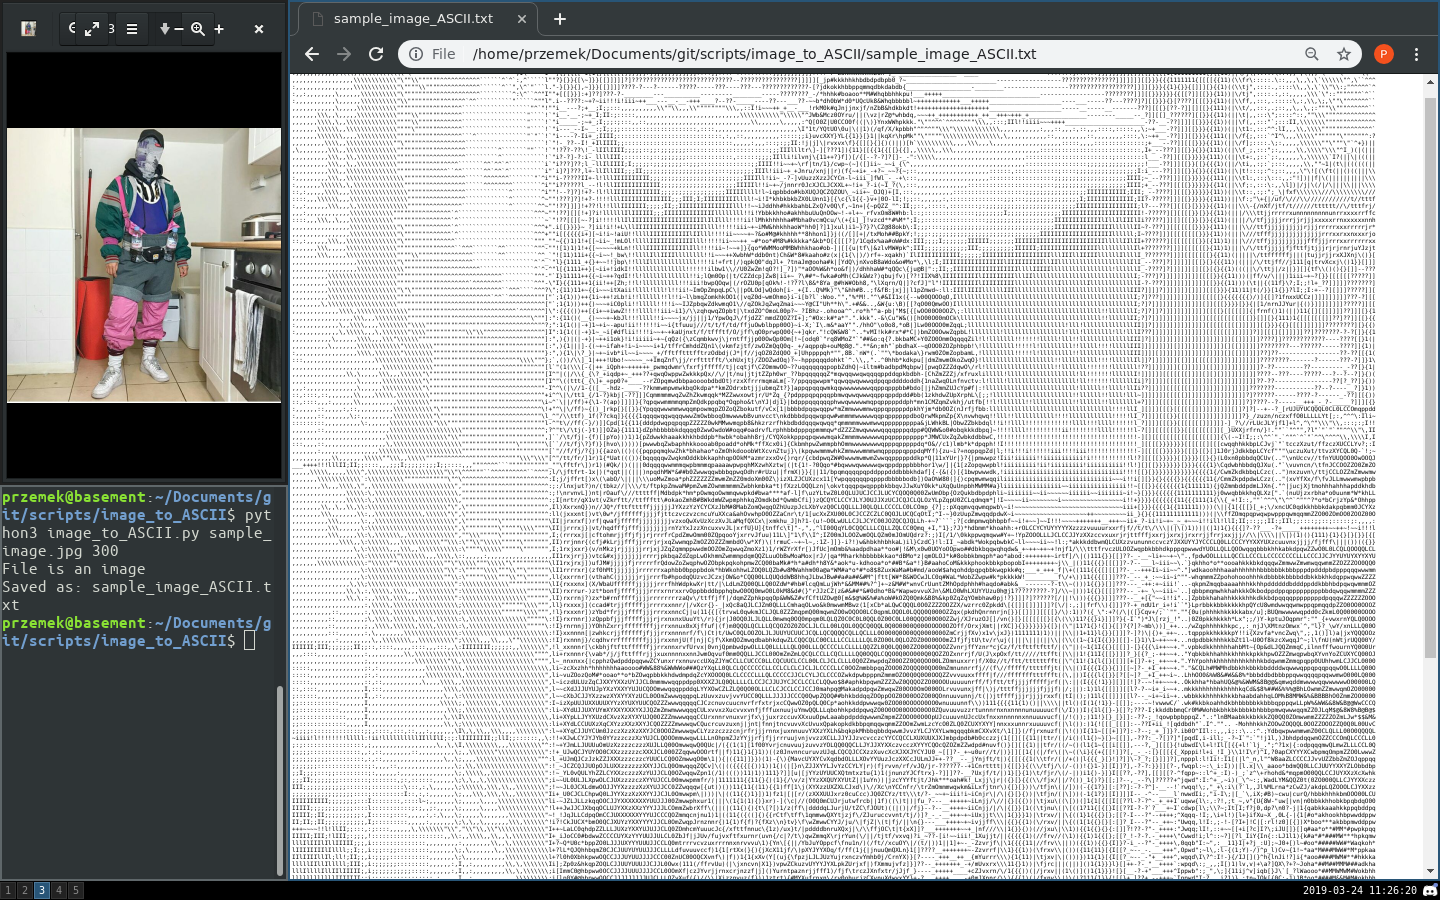
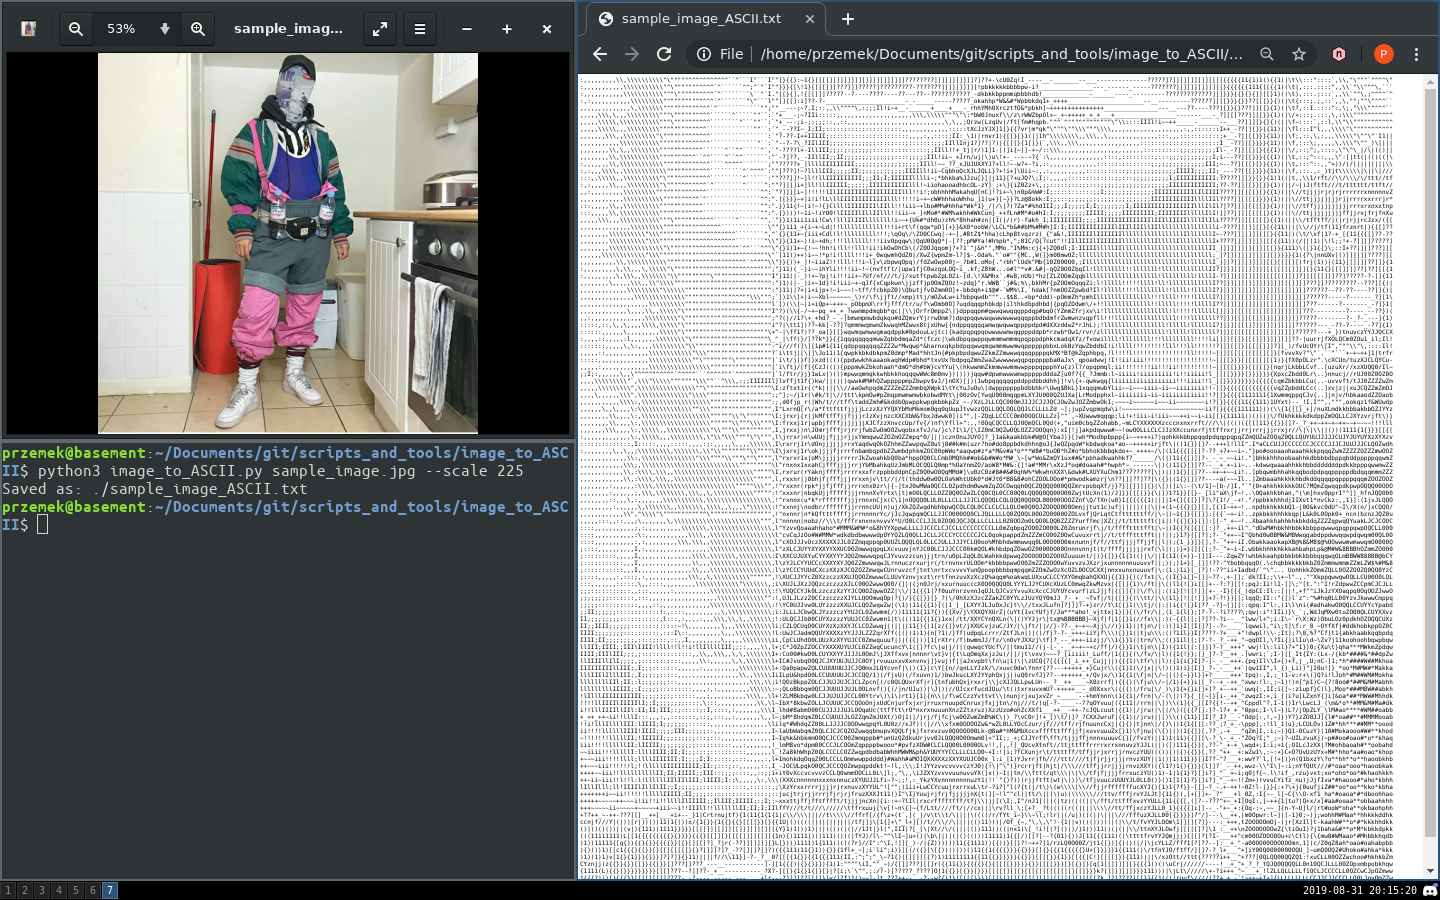
Updated READMEs, helps. Added a possibility to use image_to_ASCII on directories and updated its screenshot

diff --git a/image_to_ASCII/image_to_ASCII.py b/image_to_ASCII/image_to_ASCII.py
@@ -1,18 +1,15 @@
 from PIL import Image
-from os.path import isfile, join, splitext, exists, basename
+from os import listdir
+from os.path import isfile, isdir, join, splitext, exists, basename
 import argparse
 
 
 class Converter:
   def __init__(self):
     self.args = []
-    self.img = None
     self.r = []
     self.init_args()
-    if self.check_if_img():
-      self.open_img()
-      self.to_ASCII()
-      self.save_to_file()
+    self.dir_or_file()
 
   def valid_path(self, path):
     if not exists(path):
@@ -21,7 +18,7 @@ class Converter:
 
   def valid_scale(self, scale):
     s = int(scale)
-    if s <= 0:
+    if s < 1:
       raise argparse.ArgumentTypeError('The scale is too small')
     if s > 500:
       raise argparse.ArgumentTypeError('The scale is too big')
@@ -29,46 +26,70 @@ class Converter:
 
   def init_args(self):
     arg_parser = argparse.ArgumentParser(
-        description='''asdf''', formatter_class=argparse.RawTextHelpFormatter)
+        description='''This script changes images to text files.
+Next to arguments names there is info about: <range> {default value}.''', formatter_class=argparse.RawTextHelpFormatter)
 
     arg_parser.add_argument(
         'src_path', type=self.valid_path, help='Path of a directory with images or a single image to process')
-    arg_parser.add_argument('--dest_path', type=self.valid_path, default='.', metavar='', 
-                                 help='Path of a directory where a result of the script will be saved, defaultly it\'s a current working directory')
-    arg_parser.add_argument('--scale', type=self.valid_scale, default=100, metavar='', 
+    arg_parser.add_argument('--dest_path', type=self.valid_path, default='.', metavar='{.}', 
+                                 help='Path of a directory where a result of the script will be saved')
+    arg_parser.add_argument('--scale', type=self.valid_scale, default=100, metavar='<1 - 500> {100}', 
                                  help='Scale of the outputed text image')
 
     self.args = arg_parser.parse_args()
 
-  def check_if_img(self):
-    if isfile(self.args.src_path):
-      if splitext(self.args.src_path)[1] in ['.jpeg', '.jpg', '.png', '.bmp', '.gif']:
-        return True
-    print('The passed source path doesn\'t contain an image')
-    return False
+  def dir_or_file(self):
+    if isdir(self.args.src_path):
+      self.iterate_over_files()
+    else:
+      if self.check_if_img(self.args.src_path):
+        self.generate_ascii_image(self.args.src_path)
+      else:
+        print('The source path doesn\'t contain an image')
 
-  def open_img(self):
-    self.img = Image.open(self.args.src_path)
-    self.img = self.img.convert('L')
+  def iterate_over_files(self):
+    imgs = [f for f in listdir(self.args.src_path) if isfile(join(self.args.src_path, f))
+            and self.check_if_img(f)]
+
+    if not imgs:
+      print('No images have been found in the source path')
+
+    imgs_len = len(imgs)
+    for i, img in enumerate(imgs):
+      print('[{}/{}] Current image: {}'.format(i + 1,
+                                               imgs_len,
+                                               join(self.args.src_path, img)))
+      self.generate_ascii_image(join(self.args.src_path, img))
+
+  def check_if_img(self, path):
+    return splitext(path)[1] in ['.jpg', '.png', '.bmp', '.gif']
+
+  def generate_ascii_image(self, img_path):
+    img = self.open_img(img_path)
+    r = self.to_ascii(img)
+    self.save_to_file(img, img_path, r)
+
+  def open_img(self, img_path):
+    img = Image.open(img_path).convert('L')
     wh_font_ratio = 0.526
-    self.img = self.img.resize(
+    return img.resize(
         (self.args.scale, 
-         int(self.img.height * self.args.scale * wh_font_ratio / self.img.width)))
+         int(img.height * self.args.scale * wh_font_ratio / img.width)))
 
-  def to_ASCII(self):
+  def to_ascii(self, img):
     chars = r'$@B%8&WM#*oahkbdpqwmZO0QLCJUYXzcvunxrjft/\|()1{}[]?-_+~i!lI;:,\"^`". '
+    r = []
+    for px in list(img.getdata()):
+      r.append(chars[int(px / 255 * (len(chars) - 1))])
+    return r
 
-    for px in list(self.img.getdata()):
-      self.r.append(chars[int(px / 255 * (len(chars) - 1))])
-
-  def save_to_file(self):
-    name = basename(self.args.src_path)
-    name = splitext(name)
-    name = '{}_ASCII.txt'.format(name[0])
-    with open(name, 'w') as f:
-      f.write('\n'.join([''.join(self.r[i:i + self.img.width])
-                         for i in range(0, len(self.r), self.img.width)]))
-    print('Saved as: {}'.format(name))
+  def save_to_file(self, img, img_path, r):
+    path = splitext(basename(img_path))
+    path = join(self.args.dest_path, '{}_ASCII.txt'.format(path[0]))
+    with open(path, 'w') as f:
+      f.write('\n'.join([''.join(r[i:i + img.width])
+                         for i in range(0, len(r), img.width)]))
+    print('Saved as: {}'.format(path))
 
 
 def main():

diff --git a/wallpaper_generator/wallpaper_generator.py b/wallpaper_generator/wallpaper_generator.py
@@ -25,12 +25,13 @@ class WallpaperGenerator:
 
   def init_args(self):
     arg_parser = argparse.ArgumentParser(
-        description='A script that generates wallpapers from images')
+        description='''This script generates wallpapers from images.
+Next to arguments names there is info about: <range> {default value}.''', formatter_class=argparse.RawTextHelpFormatter)
 
     arg_parser.add_argument(
         'src_path', type=self.valid_path, help='Path of a directory with images or a single image to process')
-    arg_parser.add_argument('--dest_path', type=self.valid_path, default='.', metavar='', 
-                                 help='Path of a directory where a result of the script will be saved, defaultly it\'s a current working directory')
+    arg_parser.add_argument('--dest_path', type=self.valid_path, default='.', metavar='{.}', 
+                                 help='Path of a directory where a result of the script will be saved')
     arg_parser.add_argument(
         '--i_min_w', type=self.valid_dimension, default=0, metavar='', help='Min width of an input image')
     arg_parser.add_argument(
@@ -41,9 +42,9 @@ class WallpaperGenerator:
         '--i_max_h', type=self.valid_dimension, default=2147483647, metavar='', help='Max height of an input image')
     root = tkinter.Tk()
     arg_parser.add_argument(
-        '--o_w', type=self.valid_dimension, default=root.winfo_screenwidth(), metavar='', help='Width of an output wallpaper')
+        '--o_w', type=self.valid_dimension, default=root.winfo_screenwidth(), metavar='{device\'s screen width}', help='Width of an output wallpaper')
     arg_parser.add_argument(
-        '--o_h', type=self.valid_dimension, default=root.winfo_screenheight(), metavar='', help='Height of an output wallpaper')
+        '--o_h', type=self.valid_dimension, default=root.winfo_screenheight(), metavar='{device\'s screen height}', help='Height of an output wallpaper')
     
     self.args = arg_parser.parse_args()
 

diff --git a/wallpaper_generator/README.md b/wallpaper_generator/README.md
@@ -12,23 +12,27 @@ The script picks two most used colors in an image and creates a gradient out of 
 
 ## Usage
 ```
-usage: wallpaper_generator.py [-h] [--dest_path] [--i_min_w] [--i_min_h]
-                              [--i_max_w] [--i_max_h] [--o_w] [--o_h]
-                              source_path
+usage: wallpaper_generator.py [-h] [--dest_path {.}] [--i_min_w] [--i_min_h]
+                              [--i_max_w] [--i_max_h]
+                              [--o_w {device's screen width}]
+                              [--o_h {device's screen height}]
+                              src_path
 
-A script that generates wallpapers from images
+This script generates wallpapers from images.
+Next to arguments names there is info about: <range> {default value}.
 
 positional arguments:
-  source_path   Path of a directory with images or a single image to process
+  src_path              Path of a directory with images or a single image to process
 
 optional arguments:
-  -h, --help    show this help message and exit
-  --dest_path   Path of a directory where a result of the script will be
-                saved, defaultly it's a current working directory
-  --i_min_w     Min width of an input image
-  --i_min_h     Min height of an input image
-  --i_max_w     Max width of an input image
-  --i_max_h     Max height of an input image
-  --o_w         Width of an output wallpaper
-  --o_h         Height of an output wallpaper
+  -h, --help            show this help message and exit
+  --dest_path {.}       Path of a directory where a result of the script will be saved
+  --i_min_w             Min width of an input image
+  --i_min_h             Min height of an input image
+  --i_max_w             Max width of an input image
+  --i_max_h             Max height of an input image
+  --o_w {device's screen width}
+                        Width of an output wallpaper
+  --o_h {device's screen height}
+                        Height of an output wallpaper
 ```

diff --git a/image_to_ASCII/README.md b/image_to_ASCII/README.md
@@ -7,8 +7,19 @@
 * Pillow 5.4.1
 
 ## Usage
-The first parameter specifies the path of a file that will be converted. The second parameter specifies width in characters of the output file. If it's not passed its value will be equal to 100.
+```
+usage: image_to_ASCII.py [-h] [--dest_path {.}] [--scale <1 - 500> {100}]
+                         src_path
 
-```python3 image_to_ASCII.py path_to_file scale```
+This script changes images to text files.
+Next to arguments names there is info about: <range> {default value}.
 
-The result of the script will be saved in the current working directory.
+positional arguments:
+  src_path              Path of a directory with images or a single image to process
+
+optional arguments:
+  -h, --help            show this help message and exit
+  --dest_path {.}       Path of a directory where a result of the script will be saved
+  --scale <1 - 500> {100}
+                        Scale of the outputed text image
+```
